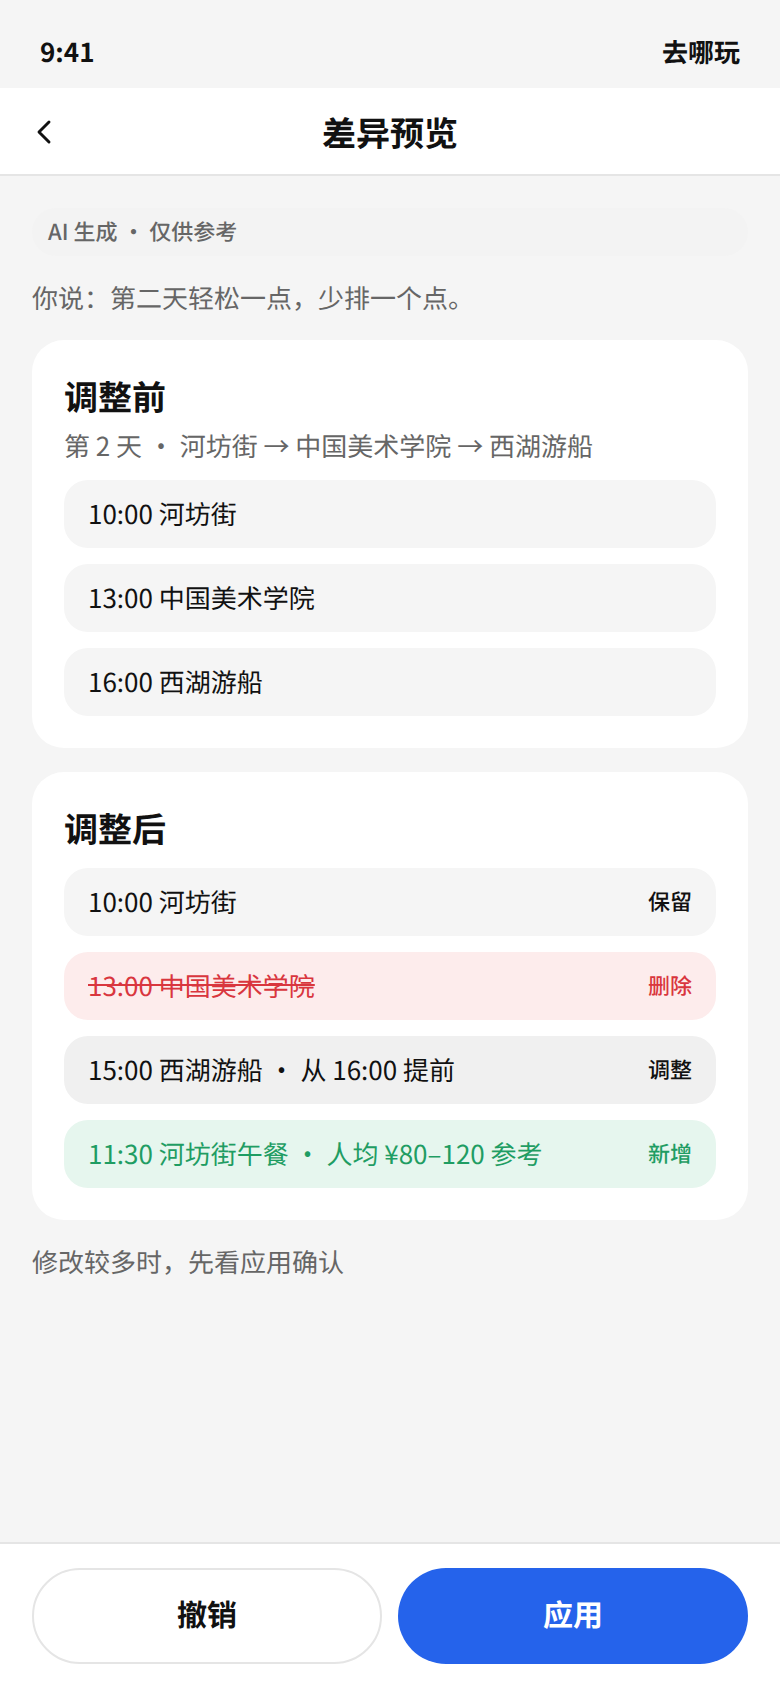
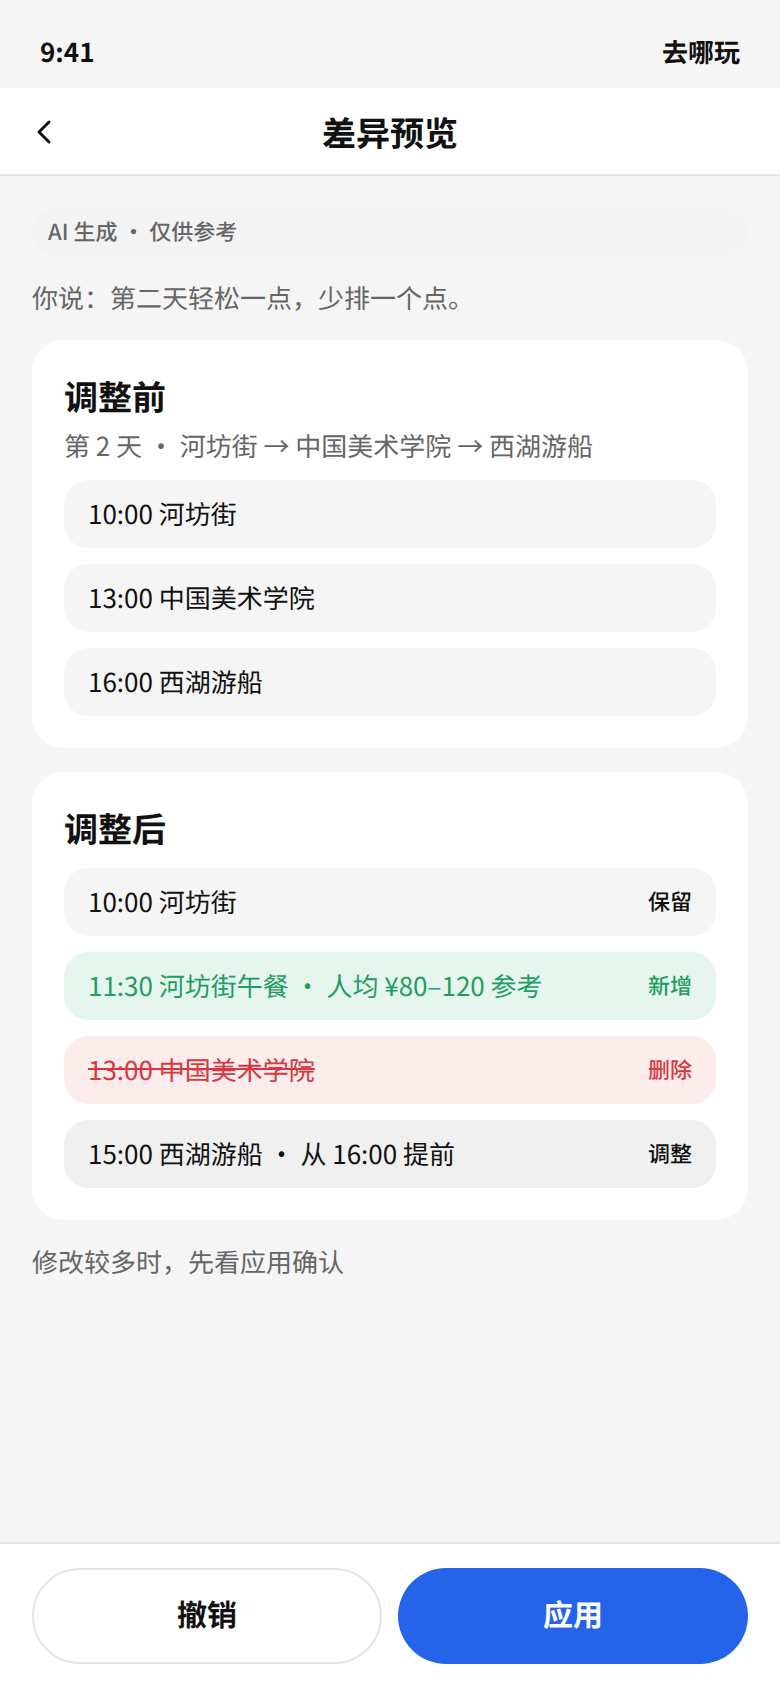
docs(design): sort the diff rows by time
Put 11:30 河坊街午餐 between 10:00 河坊街 and the 15:00 boat, and leave the removed 13:00 stop in its original slot. The apply sheet uses the same order.

diff --git a/docs/travel-planner/design/prototype/pages/P04-c-apply-confirm.html b/docs/travel-planner/design/prototype/pages/P04-c-apply-confirm.html
@@ -15,12 +15,12 @@
 <div class="login-stage">
   <div class="screen-body">
     <p class="dim">差异较多</p>
-    <div class="diff-row diff-add"><span>新增 · 河坊街午餐</span><b>新增</b></div>
-    <div class="diff-row diff-add"><span>新增 · 清河坊夜市</span><b>新增</b></div>
-    <div class="diff-row diff-del"><s>删除 · 中国美术学院</s><b>删除</b></div>
-    <div class="diff-row diff-chg"><span>调整 · 西湖游船改到下午</span><b>调整</b></div>
-    <div class="diff-row diff-chg"><span>调整 · 酒店入住改到 18:00</span><b>调整</b></div>
-    <div class="diff-row diff-del"><s>删除 · 灵隐寺夜游</s><b>删除</b></div>
+    <div class="diff-row diff-add"><span>11:30 河坊街午餐</span><b>新增</b></div>
+    <div class="diff-row diff-del"><s>13:00 中国美术学院</s><b>删除</b></div>
+    <div class="diff-row diff-chg"><span>15:00 西湖游船 · 从 16:00 提前</span><b>调整</b></div>
+    <div class="diff-row diff-chg"><span>18:00 酒店入住</span><b>调整</b></div>
+    <div class="diff-row diff-add"><span>19:30 清河坊夜市</span><b>新增</b></div>
+    <div class="diff-row diff-del"><s>21:00 灵隐寺夜游</s><b>删除</b></div>
   </div>
   <div class="stage-dim"></div>
   <div class="login-sheet" role="dialog" aria-label="应用确认">

diff --git a/docs/travel-planner/design/prototype/pages/P04-b-diff.html b/docs/travel-planner/design/prototype/pages/P04-b-diff.html
@@ -26,9 +26,9 @@
   <section class="card">
     <h2 class="t-headline">调整后</h2>
     <div class="diff-row"><span>10:00 河坊街</span><b>保留</b></div>
+    <div class="diff-row diff-add"><span>11:30 河坊街午餐 · 人均 ¥80–120 参考</span><b>新增</b></div>
     <div class="diff-row diff-del"><s>13:00 中国美术学院</s><b>删除</b></div>
     <div class="diff-row diff-chg"><span>15:00 西湖游船 · 从 16:00 提前</span><b>调整</b></div>
-    <div class="diff-row diff-add"><span>11:30 河坊街午餐 · 人均 ¥80–120 参考</span><b>新增</b></div>
   </section>
   <a class="t-caption" href="P04-c-apply-confirm.html">修改较多时，先看应用确认</a>
 </div>
